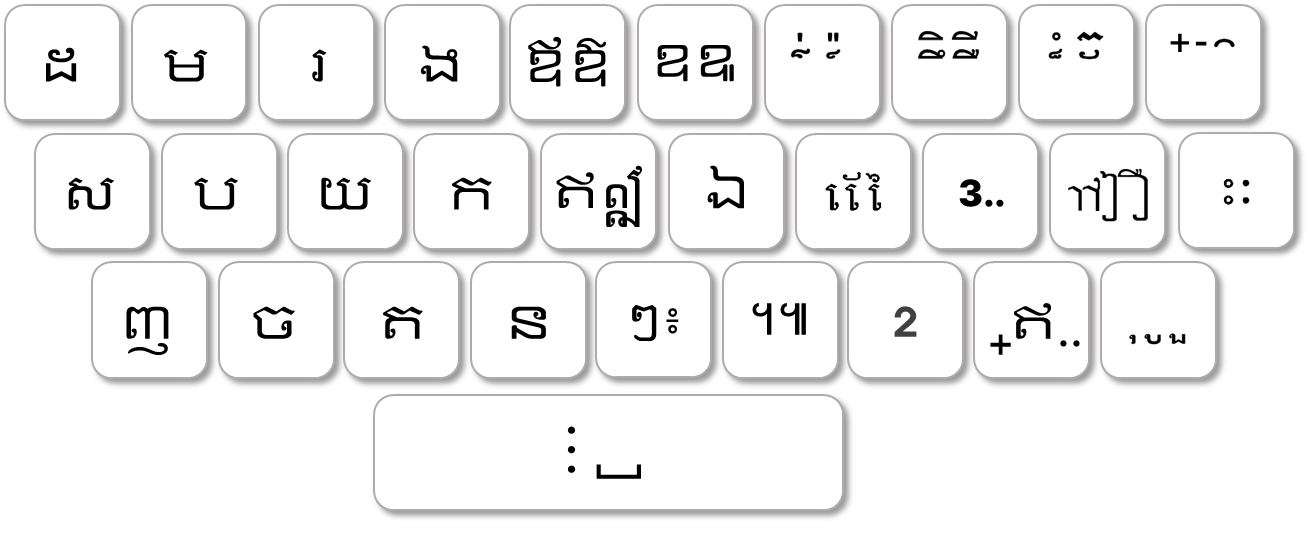
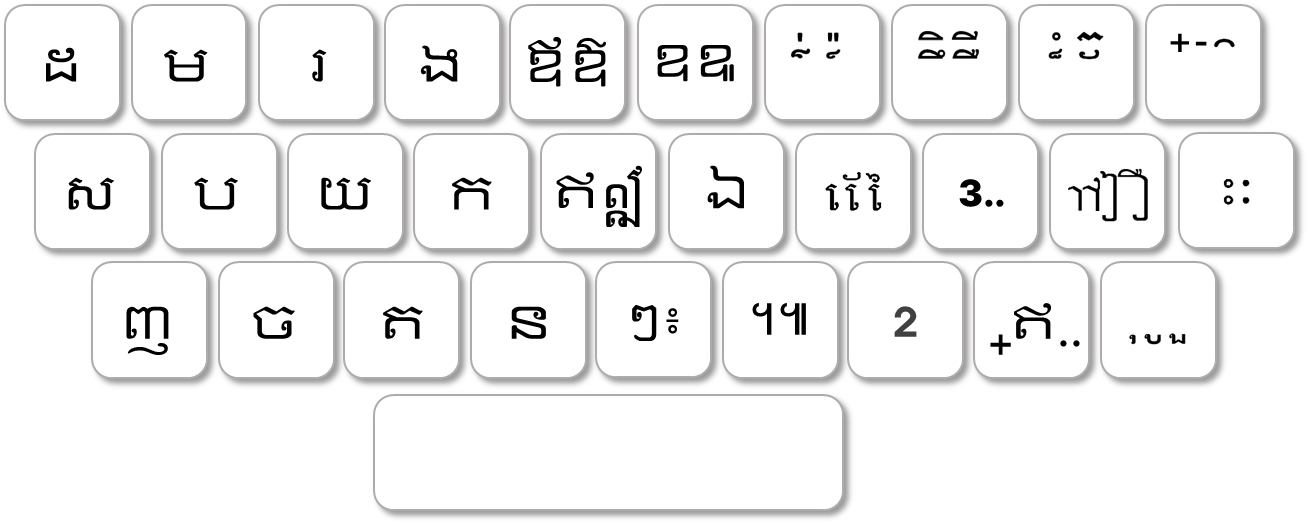
Add files via upload

diff --git a/index.html b/index.html
@@ -96,11 +96,11 @@
                     <ul class="space-y-4 text-gray-600">
                         <li class="flex items-start">
                         <span class="text-blue-500 mr-3 mt-1">✓</span>
-                        <span>ពចុច ១ដង (⁝) - បញ្ចូល<strong>សញ្ញាស្ពេសអរូប</strong> យ៉ាងងាយស្រួល</span>
+                        <span>ចុច ១ដង - បំបែកពាក្យ យ៉ាងងាយស្រួល</span>
                     </li>
                     <li class="flex items-start">
                         <span class="text-blue-500 mr-3 mt-1">✓</span>
-                        <span>ចុច ២ដងឡើងទៅ (␣) - បញ្ចូលសញ្ញាដកឃ្លាធម្មតា</span>
+                        <span>ចុច ២ដង - ចន្លោះធម្មតា</span>
                     </li>
                     </ul>
                 </div>
